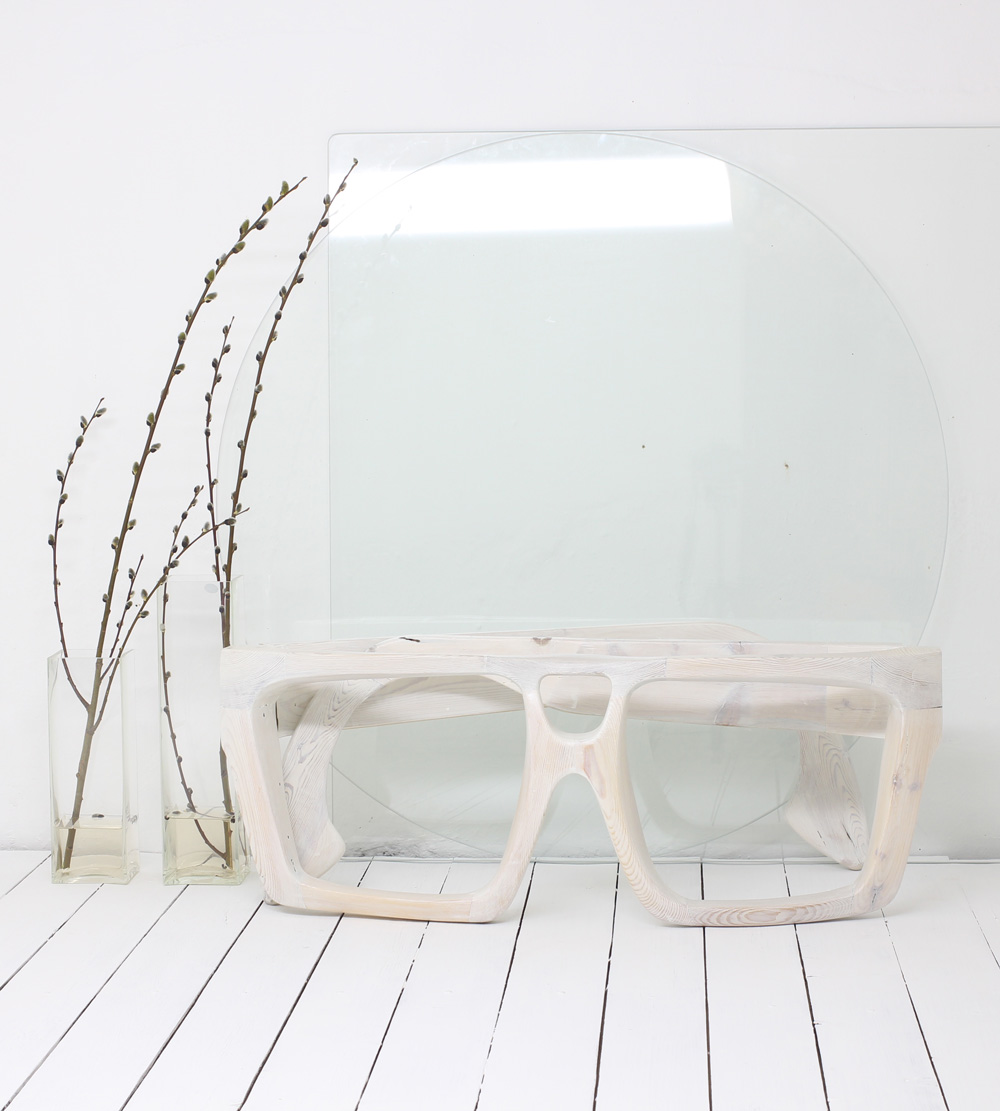
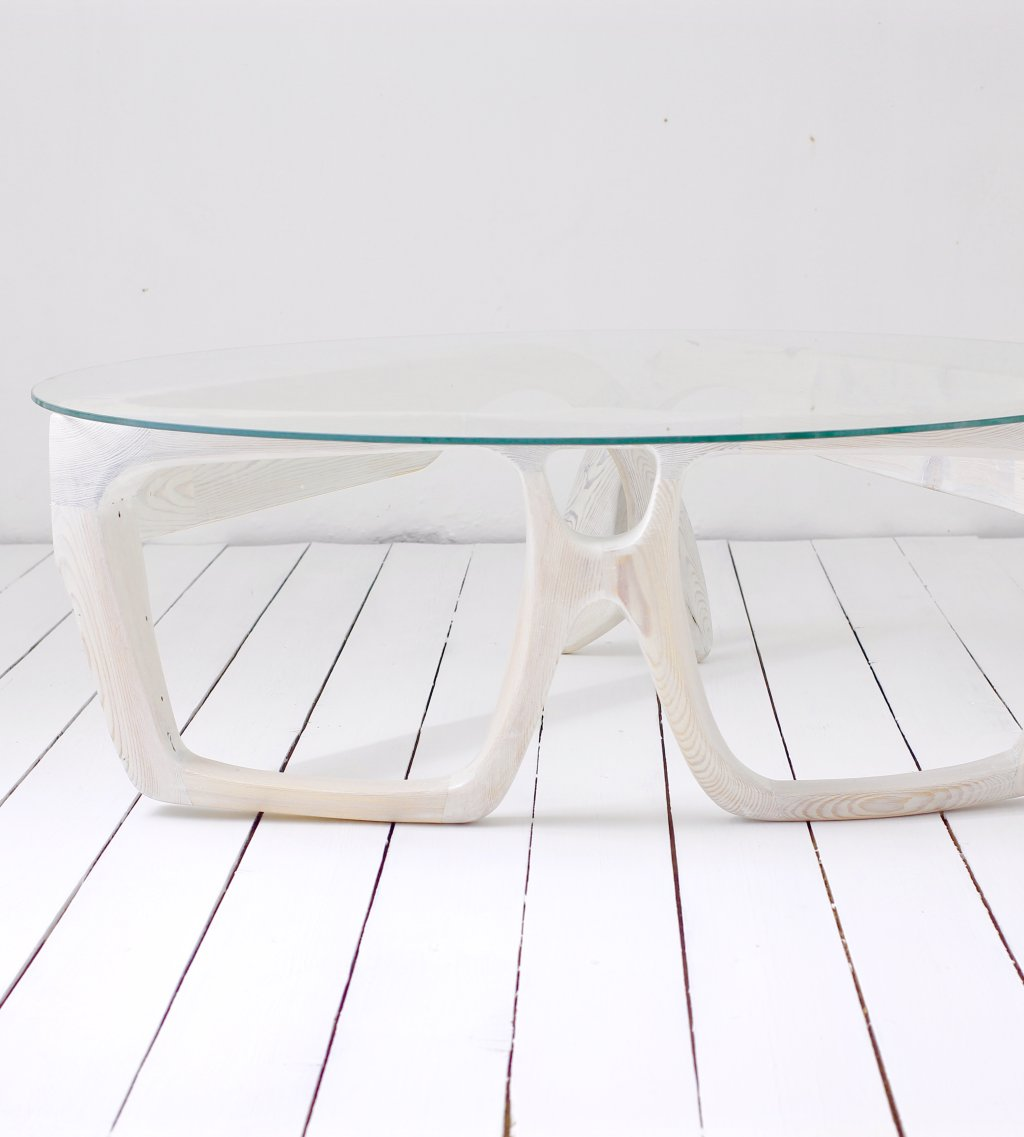
SUM

diff --git a/CreateIndex.py b/CreateIndex.py
@@ -55,7 +55,7 @@ def imgText(pathProject, project):
         if os.path.isfile(os.path.join(pathProject, file)):
             name, ext= os.path.splitext(file)
             if ext=='.jpg':
-                if name.startswith('0') or name.startswith('1'):
+                if name.startswith('0') or name.startswith('10'):
                     imgPath=os.path.join('projects', project, file)
                     imgHeight=''
                     # print(name)

diff --git a/projects/Glasses/README.md b/projects/Glasses/README.md
@@ -1,15 +1,15 @@
 
-## Glasses. _02.2016 - WINTER._  
-![Glasses](/None)  
+## Glasses. _10/2012 - 04/2015._  
+![Glasses](/projects/Glasses/100.jpg)<a href="https://ewwgene.github.io/projects/Glasses/101.jpg"><img src="/projects/Glasses/101.jpg" height="125"></a> <a href="https://ewwgene.github.io/projects/Glasses/102.jpg"><img src="/projects/Glasses/102.jpg" height="125"></a> <a href="https://ewwgene.github.io/projects/Glasses/111.jpg"><img src="/projects/Glasses/111.jpg" height="125"></a> <a href="https://ewwgene.github.io/projects/Glasses/112.jpg"><img src="/projects/Glasses/112.jpg" height="125"></a> <a href="https://ewwgene.github.io/projects/Glasses/114.jpg"><img src="/projects/Glasses/114.jpg" height="125"></a> <a href="https://ewwgene.github.io/projects/Glasses/115.jpg"><img src="/projects/Glasses/115.jpg" height="125"></a> <a href="https://ewwgene.github.io/projects/Glasses/118.jpg"><img src="/projects/Glasses/118.jpg" height="125"></a> <a href="https://ewwgene.github.io/projects/Glasses/119.jpg"><img src="/projects/Glasses/119.jpg" height="125"></a>   
 **Overview**  
-WOODEN TV cabinet with cable management. It is characterized by wall-mounted and floor-to-ceiling, onto which shelves and storage units with leaf doors, drawers or flap doors are hooked at the desired height. It is characterized by wall-mounted and floor-to-ceiling, onto which shelves and storage units with leaf doors, drawers or flap doors are hooked at the desired height.  
-<br>
   
+<br>
+<a href="https://ewwgene.github.io/projects/Glasses/Making/209.jpg"><img src="/projects/Glasses/Making/209.jpg" height="125"></a> <a href="https://ewwgene.github.io/projects/Glasses/Making/210.jpg"><img src="/projects/Glasses/Making/210.jpg" height="125"></a> <a href="https://ewwgene.github.io/projects/Glasses/Making/211.jpg"><img src="/projects/Glasses/Making/211.jpg" height="125"></a> <a href="https://ewwgene.github.io/projects/Glasses/Making/220.jpg"><img src="/projects/Glasses/Making/220.jpg" height="125"></a> <a href="https://ewwgene.github.io/projects/Glasses/Making/222.jpg"><img src="/projects/Glasses/Making/222.jpg" height="125"></a> <a href="https://ewwgene.github.io/projects/Glasses/Making/223.jpg"><img src="/projects/Glasses/Making/223.jpg" height="125"></a> <a href="https://ewwgene.github.io/projects/Glasses/Making/225.jpg"><img src="/projects/Glasses/Making/225.jpg" height="125"></a> <a href="https://ewwgene.github.io/projects/Glasses/Making/227.jpg"><img src="/projects/Glasses/Making/227.jpg" height="125"></a> <a href="https://ewwgene.github.io/projects/Glasses/Making/228.jpg"><img src="/projects/Glasses/Making/228.jpg" height="125"></a> <a href="https://ewwgene.github.io/projects/Glasses/Making/233.jpg"><img src="/projects/Glasses/Making/233.jpg" height="125"></a> <a href="https://ewwgene.github.io/projects/Glasses/Making/234.jpg"><img src="/projects/Glasses/Making/234.jpg" height="125"></a> <a href="https://ewwgene.github.io/projects/Glasses/Making/235.jpg"><img src="/projects/Glasses/Making/235.jpg" height="125"></a> <a href="https://ewwgene.github.io/projects/Glasses/Making/244.jpg"><img src="/projects/Glasses/Making/244.jpg" height="125"></a> <a href="https://ewwgene.github.io/projects/Glasses/Making/245.jpg"><img src="/projects/Glasses/Making/245.jpg" height="125"></a> <a href="https://ewwgene.github.io/projects/Glasses/Making/246.jpg"><img src="/projects/Glasses/Making/246.jpg" height="125"></a>   
 **Making**  
-We were greatly inspired by Jacek Markusiewicz’s “adrift”, lunarean's “Heat Death”, and Monotau’s “Cradle” collections on fxhash, both by their approach to code as well as aesthetic synthesis of elements of their work. They motivated us to leave our code open (unminified and unobfuscated), available on public repositories (GitHub), and well documented through writing and talks so they can serve as inspiration to others. We see our support for open generative tools as a mission every generative artist should partake in.  
+  
 /
-`PINE_WOOD` `DANISH OIL`   
+`SOLID_PINE_WOOD` `NATURAL OIL` `WAX`   
 /
-_`AUTOCAD`_ _`ARCHICAD`_ _`RHINOCEROUS`_   
+_`KUTZALL WHEELS`_ _`IDRAW`_   
 <br>
 

diff --git a/README.md b/README.md
@@ -20,22 +20,22 @@ _`AUTOCAD`_ _`ARCHICAD`_ _`RHINOCEROUS`_
 <a href="https://ewwgene.github.io/projects/Cocoon"><img src="/projects/Cocoon/000.jpg" height="200"></a> <a href="https://ewwgene.github.io/projects/Cocoon"><img src="/projects/Cocoon/001.jpg" height="100"></a> <a href="https://ewwgene.github.io/projects/Cocoon"><img src="/projects/Cocoon/002.jpg" height="100"></a> <a href="https://ewwgene.github.io/projects/Cocoon"><img src="/projects/Cocoon/003.jpg" height="100"></a> 
 
 ### [Glasses.](https://ewwgene.github.io/projects/Glasses) 
-_02.2016 - WINTER._  
-WOODEN TV cabinet with cable management. It is characterized by wall-mounted and floor-to-ceiling, onto which shelves and storage units with leaf doors, drawers or flap doors are hooked at the desire... [[more...]](https://ewwgene.github.io/projects/Glasses)  
+_10/2012 - 04/2015._  
+... [[more...]](https://ewwgene.github.io/projects/Glasses)  
 /
-`PINE_WOOD` `DANISH OIL` 
+`SOLID_PINE_WOOD` `NATURAL OIL` `WAX` 
 /
-_`AUTOCAD`_ _`ARCHICAD`_ _`RHINOCEROUS`_ 
+_`KUTZALL WHEELS`_ _`IDRAW`_ 
 
-<a href="https://ewwgene.github.io/projects/Glasses"><img src="/projects/Glasses/000.jpg" height="200"></a> <a href="https://ewwgene.github.io/projects/Glasses"><img src="/projects/Glasses/001.jpg" height="100"></a> <a href="https://ewwgene.github.io/projects/Glasses"><img src="/projects/Glasses/002.jpg" height="100"></a> <a href="https://ewwgene.github.io/projects/Glasses"><img src="/projects/Glasses/003.jpg" height="100"></a> 
+<a href="https://ewwgene.github.io/projects/Glasses"><img src="/projects/Glasses/000.jpg" height="200"></a> <a href="https://ewwgene.github.io/projects/Glasses"><img src="/projects/Glasses/101.jpg" height="100"></a> <a href="https://ewwgene.github.io/projects/Glasses"><img src="/projects/Glasses/102.jpg" height="100"></a> 
 
 ### [Hexagon.](https://ewwgene.github.io/projects/Hexagon) 
 _11/2015 - WINTER._  
 ... [[more...]](https://ewwgene.github.io/projects/Hexagon)  
 /
-`SOLID_PINE_WOOD` `KUTZALL` `NATURAL OIL` `WAX` 
+`SOLID_PINE_WOOD` `NATURAL OIL` `WAX` 
 /
-_`IDRAW`_ 
+_`KUTZALL WHEELS`_ _`IDRAW`_ 
 
 <a href="https://ewwgene.github.io/projects/Hexagon"><img src="/projects/Hexagon/000.jpg" height="200"></a> <a href="https://ewwgene.github.io/projects/Hexagon"><img src="/projects/Hexagon/101.jpg" height="100"></a> <a href="https://ewwgene.github.io/projects/Hexagon"><img src="/projects/Hexagon/102.jpg" height="100"></a> 
 

diff --git a/projects/Hexagon/README.md b/projects/Hexagon/README.md
@@ -8,8 +8,8 @@
 **Making**  
   
 /
-`SOLID_PINE_WOOD` `KUTZALL` `NATURAL OIL` `WAX`   
+`SOLID_PINE_WOOD` `NATURAL OIL` `WAX`   
 /
-_`IDRAW`_   
+_`KUTZALL WHEELS`_ _`IDRAW`_   
 <br>
 <a href="https://ewwgene.github.io/projects/Hexagon/300.jpg"><img src="/projects/Hexagon/300.jpg" height="125"></a> <a href="https://ewwgene.github.io/projects/Hexagon/301.jpg"><img src="/projects/Hexagon/301.jpg" height="125"></a> 
